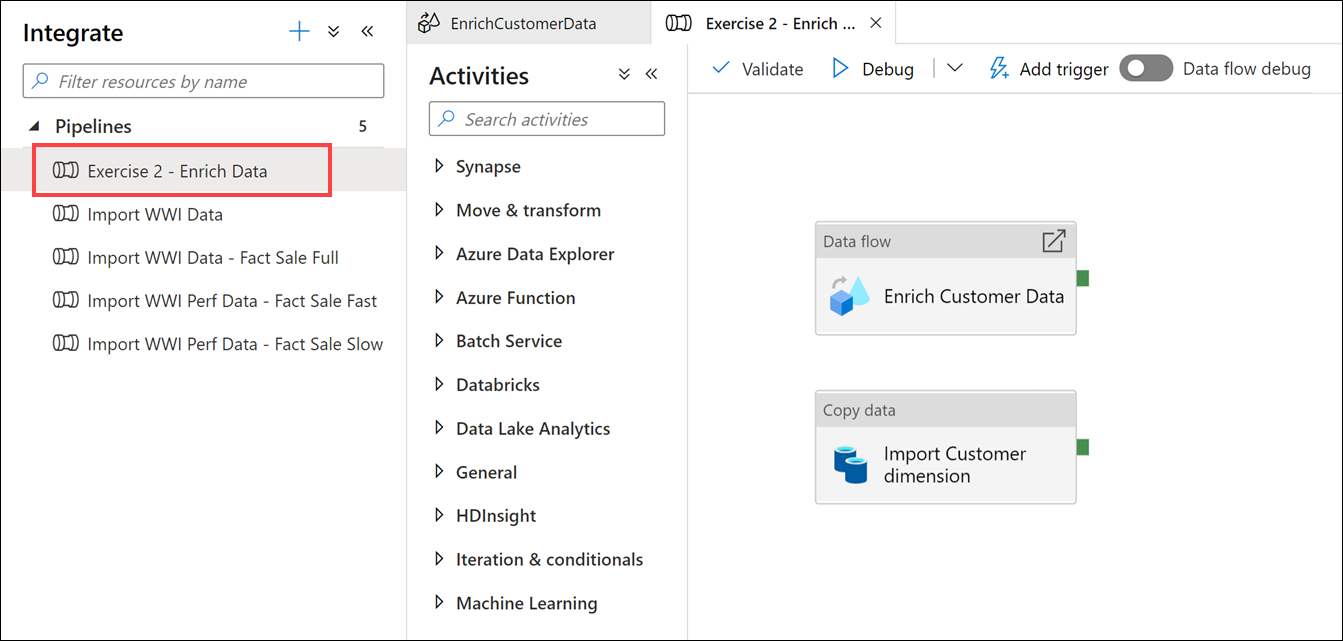
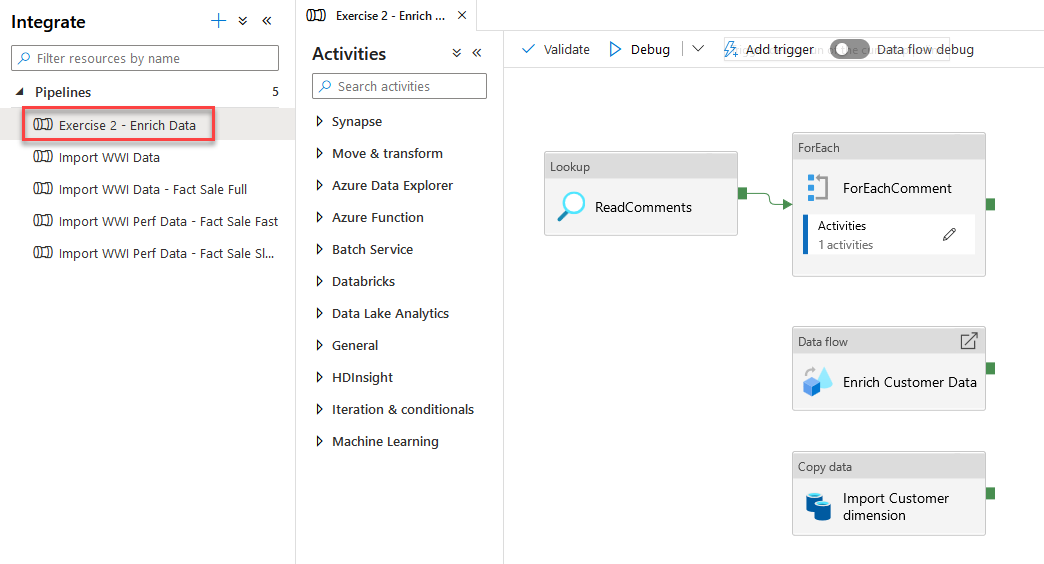
Cognitive Service use added for the Data Enrichment pipeline in Exercise 2

diff --git a/02-build-modern-dw-pipelines.md b/02-build-modern-dw-pipelines.md
@@ -10,6 +10,7 @@ The tasks you will perform in this exercise are:
   - Task 2 - Explore, modify, and run a Pipeline containing a Data Flow
   - Task 3 - Monitor pipelines
   - Task 4 - Monitor Spark applications
+    - Bonus Discovery
 
 ---
 
@@ -143,7 +144,7 @@ In this task, you see how easy it is to write into a dedicated SQL pool table wi
 
 18. Close the SQL script generated by `wwi_staging.Sale`.
 
-### Bonus exercise
+### Bonus challenge
 
 Now, take some time to review the **Exercise 2 - Bonus Notebook with CSharp** notebook.
 
@@ -182,9 +183,9 @@ To observe the data being written into the table:
 
 5. **Important**: Close the notebook by selecting the **X** in the top right of the tab and then select **Discard Changes**. Closing the notebook will ensure you free up the allocated resources on the Spark Pool.
 
-## Task 2 - Explore, modify, and run a Pipeline containing a Data Flow
+## Task 2 - Explore, modify, and run a Pipeline containing a Data Flow and Code-free AI
 
-In this task, you use a Pipeline containing a Data Flow to explore, transform, and load data into an Azure Synapse Analytics table. Using pipelines and data flows allows you to perform data ingestion and transformations, similar to what you did in Task 1, but without writing any code.
+In this task, you use a Pipeline that implements Code-free AI to do sentiment analysis on customer feedback and contains a Data Flow to explore, transform, and load data into an Azure Synapse Analytics table. Using Cognitive Services and data flows in Pipelines allows you to handle code-free AI workloads, perform data ingestion and transformations, similar to what you did in Task 1, but without writing any code.
 
 1. In Synapse Studio and select **Integrate** from the left-hand menu.
 
@@ -194,43 +195,66 @@ In this task, you use a Pipeline containing a Data Flow to explore, transform, a
 
    ![The Enrich Data pipeline is selected.](media/enrich-data-pipeline.png "Pipelines")
 
-   > Selecting a pipeline opens the pipeline canvas, where you can review and edit the pipeline using a code-free, graphical interface. This view shows the various activities within the pipeline and the links and relationships between those activities. The `Exercise 2 - Enrich Data` pipeline contains two activities, a copy data activity named `Import Customer dimension` and a mapping data flow activity named `Enrich Customer Data`.
+   > Selecting a pipeline opens the pipeline canvas, where you can review and edit the pipeline using a code-free, graphical interface. This view shows the various activities within the pipeline and the links and relationships between those activities. The `Exercise 2 - Enrich Data` pipeline contains four activities;
+   >
+   > - a Lookup activity named `ReadComments` reading customer comments
+   > - a ForEach loop named `ForEachComment` iterating through comments and running Sentiment Analysis with Azure Cognitive Services
+   > - a copy data activity named `Import Customer dimension`
+   > - a mapping data flow activity named `Enrich Customer Data`.
 
-3. Now, take a closer look at each of the activities within the pipeline. On the canvas graph, select the **Copy data** activity named `Import Customer dimension`.
+3. Now, take a closer look at each of the activities within the pipeline. On the canvas graph, select the **Lookup** activity named `ReadComments` and switch to the **Settings** tab. The source dataset is set to a CSV files stored in the data lake.
+
+    > A lookup activity reads and returns the content of a file which can be consumed in a subsequent copy, transformation, or control flow activities like ForEach activity. The Lookup activity output supports up to 4 MB in size. In this case, the source is set to a single CSV file that is much smaller. For larger data sets multiple source files can be used.
+
+   ![The Settings tab of the ReadCOmments Lookup Activity is selected. Source dataset is highlighted.](media/enrich-data-pipeline-readcomments.png "Read Comments")
+
+4. From the canvas graph, select the **ForEach (1)** activity named `ForEachComment` and switch to the **Settings (2)** tab. The **Items** property is set to receive the output of the previous `ReadComments` activity. You might have noticed the green connection line between the two activities that define a dependency between the two activities. The line makes sure comments are read before the ForEach loop can iterate it. Select the edit button **(4)** in the ForEach activity's Activities box to navigate into the loop.
+
+   ![ForEachComments ForEach activity is selected. Settings tab is shown. Items property is highlighted.](media/enrich-data-pipeline-foreach.png "ForEach Loop")
+
+5. Select **Copy data** activity named `Sentiment Analysis` and switch to the **Source** tab. The Copy Data activity's Source dataset is set to a REST resource **(3)** backed by Azure Cognitive Services. A POST **(4)** HTTP request will be made to the Azure Cognitive Services endpoint carrying a request body (5) that includes the text from the current iteration that will be analyzed for sentiments.
+
+    ![Copy data activity named Sentiment Analysis is selected. Source tab is open. Source dataset is set to a REST Data Source. Request body and method are highlighted.](media/data-enrichment-pipeline-sentiment-analysis-activity.png "Copy Data REST Source")
+
+6. Switch to the **Sink (1)** tab. Here, the sink dataset is set to a JSON file location in the data lake. Once the Copy data activity gets the result of the sentiment analysis from the remote REST resource endpoint, the result will be saved as separate JSON files into the Sink dataset **(2)**. The files will include a complete sentiment analysis for the customer comment that can be queried and analyzed further. Select **Exercise 2 - Enrich Data (3)** link to go back to the main pipeline canvas.
+
+   ![Copy data activity named Sentiment Analysis is selected. Sink tab is open. Sink dataset is set to a JSON Data Source. ](media/data-enrichment-pipeline-sentiment-analysis-activity-sink.png "Sentiment Sink")
+
+7. On the canvas graph, select the **Copy data** activity named `Import Customer dimension`.
 
     > Below the graph is a series of tabs, each providing additional details about the selected activity. The **General** tab displays the name and description assigned to the activity and a few other properties.
 
     ![A screenshot of Exercise 2 - Enrich Data pipeline canvas and properties pane is displayed.](media/ex02-orchestrate-copy-data-general.png "Pipeline canvas")
 
-4. Select the **Source** tab. The source defines the location from which the activity will copy data. The **Source dataset** field is a pointer to the location of the source data.
+8. Select the **Source** tab. The source defines the location from which the activity will copy data. The **Source dataset** field is a pointer to the location of the source data.
 
     > Take a moment to review the various properties available on the Source tab. Data is being retrieved from files stored in a data lake.
 
     ![The Source tab for the Copy data activity is selected and highlighted.](media/ex02-orchestrate-copy-data-source.png "Pipeline canvas property tabs")
 
-5. Next, select the **Sink (1)** tab. The sink specifies where the copied data will be written. Like the Source, the sink uses a dataset to define a pointer to the target data store. Select **PolyBase (2)** for the `Copy method`. This improves the data loading speed as compared to the default setting of bulk insert.
+9. Next, select the **Sink (1)** tab. The sink specifies where the copied data will be written. Like the Source, the sink uses a dataset to define a pointer to the target data store. Select **PolyBase (2)** for the `Copy method`. This improves the data loading speed as compared to the default setting of bulk insert.
 
     ![The Sink tab for the Copy data activity is selected and highlighted.](media/ex02-orchestrate-copy-data-sink.png "Pipeline canvas property tabs")
 
     > Reviewing the fields on this tab, you will notice that it is possible to define the copy method, table options, and to provide pre-copy scripts to execute. Also, take special note of the sink dataset, `wwi_staging_dimcustomer_asa`. The dataset requires a parameter named `UniqueId`, which is populated using a substring of the Pipeline Run Id. This dataset points to the `wwi_staging.DimCustomer_UniqueId` table in Synapse Analytics, which is one of the data sources for the Mapping Data Flow. We will need to ensure that the copy activity successfully populates this table before running the data flow.
 
-6. Select the **Mapping** tab. On this tab, you can review and set the column mappings. As you can see on this tab, the spaces are being removed from the sink's column names.
+10. Select the **Mapping** tab. On this tab, you can review and set the column mappings. As you can see on this tab, the spaces are being removed from the sink's column names.
 
     ![The Mappings tab for the Copy data activity is highlighted and displayed.](media/ex02-orchestrate-copy-data-mapping.png "Pipeline canvas property tabs")
 
-7. Finally, select the **Settings (1)** tab. Check **Enable staging (2)** and expand `Staging settings`. Select **asadatalake01** under `Staging account linked service` **(3)**, then type **staging** into `Storage Path`. Finally, check **Enable Compression**.
+11. Finally, select the **Settings (1)** tab. Check **Enable staging (2)** and expand `Staging settings`. Select **asadatalake01** under `Staging account linked service` **(3)**, then type **staging** into `Storage Path`. Finally, check **Enable Compression**.
 
     ![The staging settings are configured as described.](media/copy-data-settings.png "Settings")
 
     > Since we are using PolyBase with dynamic file properties, owing to the UniqueId values, we need to [enable staging](https://docs.microsoft.com/azure/data-factory/connector-azure-sql-data-warehouse#staged-copy-by-using-polybase). In cases of large file movement activities, configuring a staging path for the copy activity can improve performance.
 
-8. Switch to the **Mapping Data Flow (1)** activity by selecting the `Enrich Customer Data` Mapping Data Flow activity on the pipeline design canvas, then select the **Settings (2)** tab.
+12. Switch to the **Mapping Data Flow (1)** activity by selecting the `Enrich Customer Data` Mapping Data Flow activity on the pipeline design canvas, then select the **Settings (2)** tab.
 
     ![The data flow activity settings are displayed.](media/pipeline-data-flow-settings.png "Settings")
 
     > Observe the settings configurable on this tab. They include parameters to pass into the data flow, the Integration Runtime, and compute resource type and size to use. If you wish to use staging, you can also specify that here.
 
-9. Next, select the **Parameters** tab in the configuration panel of the Mapping Data Flow activity.
+13. Next, select the **Parameters** tab in the configuration panel of the Mapping Data Flow activity.
 
     ![The Parameters table on the configuration panel of the Mapping Data Flow activity is selected and highlighted.](media/ex02-orchestrate-data-flow-parameters.png "Mapping Data Flow activity")
 
@@ -242,125 +266,125 @@ In this task, you use a Pipeline containing a Data Flow to explore, transform, a
 
     > This sets the UniqueId parameter required by the `EnrichCustomerData` data flow to a unique substring extracted from the pipeline run ID.
 
-10. Take a minute to look at the options available on the various tabs in the configuration panel. You will notice the properties here define how the data flow operates within the pipeline.
+14. Take a minute to look at the options available on the various tabs in the configuration panel. You will notice the properties here define how the data flow operates within the pipeline.
 
-11. Now, let us look at the data flow definition the Mapping Data Flow activity references. Double-click the **Mapping Data Flow** activity on the pipeline canvas to open the underlying Data Flow in a new tab.
+15. Now, let us look at the data flow definition the Mapping Data Flow activity references. Double-click the **Mapping Data Flow** activity on the pipeline canvas to open the underlying Data Flow in a new tab.
 
     > **Important**: Typically, when working with Data Flows, you would want to enable **Data flow debug**. [Debug mode](https://docs.microsoft.com/azure/data-factory/concepts-data-flow-debug-mode) creates a Spark cluster to use for interactively testing each step of the data flow and allows you to validate the output before saving and running the data flow. Enabling a debugging session can take up to 10 minutes, so you will not enable this for this workshop. Screenshots will be used to provide details that would otherwise require a debug session to view.
 
     ![The EnrichCustomerData Data Flow canvas is displayed.](media/ex02-orchestrate-data-flow.png "Data Flow canvas")
 
-12. The [Data Flow canvas](https://docs.microsoft.com/azure/data-factory/concepts-data-flow-overview#data-flow-canvas) allows you to see the construction of the data flow and each component contained within it in greater detail.
+16. The [Data Flow canvas](https://docs.microsoft.com/azure/data-factory/concepts-data-flow-overview#data-flow-canvas) allows you to see the construction of the data flow and each component contained within it in greater detail.
 
     > From a high level, the `EnrichCustomerData` data flow is composed of two data sources, multiple transformations, and two sinks. The data source components, `PostalCodes` and `DimCustomer`, ingest data into the data flow. The `EnrichedCustomerData` and `EnrichedCustomerDataAdls` components on the right are sinks, used to write data to data stores. The remaining components between the sources and sinks are transformation steps, which can perform filtering, joins, select, and other transformational actions on the ingested data.
 
     ![On the data flow canvas, the components are broken down into three sections. Section number 1 is labeled data sources and contains the PostalCodes and DimCustomer components. Section number 2 is labeled Transformations, and contains the PostCodeFilter, JoinOnPostalCode, and SelectDesiredColumns components. Section number 3 is labeled sinks, and contains the EnrichedCustomerData and EnrichedCustomerDataAdls components.](media/ex02-orchestrate-data-flow-components.png "Data flow canvas")
 
-13. To better understand how a data flow functions, let us inspect the various components. Select the `PostalCodes` data source on the data flow canvas.
+17. To better understand how a data flow functions, let us inspect the various components. Select the `PostalCodes` data source on the data flow canvas.
 
     > On the **Source settings** tab, we see properties similar to what we saw on the pipeline activities property tabs. The name of the component can be defined, along with the source dataset and a few other properties. The `PostalCodes` dataset points to a CSV file stored in an Azure Data Lake Storage Gen2 account.
 
     ![The PostalCodes data source component is highlighted on the data flow canvas surface.](media/ex02-orchestrate-data-flow-sources-postal-codes.png "Data flow canvas")
 
-14. Select the **Projection** tab.
+18. Select the **Projection** tab.
 
     > The **Projections** tab allows you to define the schema of the data being ingested from a data source. A schema is required for each data source in a data flow to enable downstream transformations to perform actions against the data source fields. Note that selecting **Import schema** requires an active debug session to retrieve the schema data from the underlying data source, as it uses the Spark cluster to read the schema. In the screenshot above, notice the `Zip` column is highlighted. The schema inferred by the import process set the column type to `integer`. For US zip code data, the data type was changed to `string` so leading zeros are not discarded from the five-digit zip codes. It is essential to review the schema to ensure the correct types are set, both for working with the data and to ensure it is displayed and stored correctly in the data sink.
 
     ![The Projections tab for the PostalCodes data source is selected, and the Zip column of the imported schema is highlighted.](media/ex02-orchestrate-data-flow-sources-postal-codes-projection.png "Data flow canvas")
 
-15. The **Data preview** tab allows you to ingest a small subset of data and view it on the canvas. This functionality requires an active debug session, so for this workshop, a screenshot that displays the execution results for that tab is provided below.
+19. The **Data preview** tab allows you to ingest a small subset of data and view it on the canvas. This functionality requires an active debug session, so for this workshop, a screenshot that displays the execution results for that tab is provided below.
 
     > The `Zip` column is highlighted on the Data preview tab to show a sample of the values contained within that field. Below, you will filter the list of zip codes down to those that appear in the customer dataset.
 
     ![The Data preview tab is highlighted and selected. The Zip column is highlighted on the Data preview tab.](media/ex02-orchestrate-data-flow-sources-postal-codes-data-preview.png "Data flow canvas")
 
-16. Before looking at the `PostalCodeFilter`, quickly select the `+` **(1)** button to the right of the `PostalCodes` data source to display a list of available transformations **(2)**.
+20. Before looking at the `PostalCodeFilter`, quickly select the `+` **(1)** button to the right of the `PostalCodes` data source to display a list of available transformations **(2)**.
 
     > Take a moment to browse the list of transformations available in Mapping Data Flows. From this list, you get an idea of the types of transformations possible using data flows. Transformations are broken down into three categories, **multiple inputs/outputs**, **schema modifiers**, and **row modifiers**. You can learn about each transformation in the docs by reading the [Mapping data flow transformation overview](https://docs.microsoft.com/azure/data-factory/data-flow-transformation-overview) article.
 
     ![The + button next to PostalCodes is highlighted, and the menu of available transformations is displayed.](media/ex02-orchestrate-data-flow-available-transformations.png "Data flow canvas")
 
-17. Next, select the `PostalCodeFilter` transformation in the graph on the data flow canvas.
+21. Next, select the `PostalCodeFilter` transformation in the graph on the data flow canvas.
 
     ![The PostalCodeFilter transformation is highlighted on the data flow canvas graph.](media/ex02-orchestrate-data-flow-transformations-filter.png "Data flow canvas")
 
-18. In the **Filter settings** tab of the configuration panel, click anywhere inside the **Filter on** box.
+22. In the **Filter settings** tab of the configuration panel, click anywhere inside the **Filter on** box.
 
     ![The Filter on box is highlighted in the configuration panel for the PostalCodeFilter transformation.](media/ex02-orchestrate-data-flow-transformations-filter-on.png "Data flow canvas")
 
-19. This will open the Visual expression builder.
+23. This will open the Visual expression builder.
 
     > In mapping data flows, many transformation properties are entered as expressions. These expressions are composed of column values, parameters, functions, operators, and literals that evaluate to a Spark data type at run time. To learn more, visit the [Build expressions in mapping data flow](https://docs.microsoft.com/azure/data-factory/concepts-data-flow-expression-builder) page in the documentation.
 
     ![The Visual expression builder is displayed.](media/ex02-orchestrate-data-flow-expression-builder.png "Visual expression builder")
 
-20. The filter currently applied ensures all zip codes are between 90000 and 98000. Observe the different expression elements and values in the area below the expression box that help you create and modify filters and other expressions.
+24. The filter currently applied ensures all zip codes are between 90000 and 98000. Observe the different expression elements and values in the area below the expression box that help you create and modify filters and other expressions.
 
-21. Select **Cancel** to close the visual expression builder.
+25. Select **Cancel** to close the visual expression builder.
 
-22. Select the `DimCustomer` **(1)** data source on the data flow canvas graph.
+26. Select the `DimCustomer` **(1)** data source on the data flow canvas graph.
 
     > Take a few minutes to review the various tabs in the configuration panel for this data source to better understand how it is configured, as you did above. Note that this data source relies on the `wwi_staging.DimCustomer_UniqueId` table from Azure Synapse Analytics for its data. `UniqueId` is supplied by a parameter to the data flow, which contains a substring of the Pipeline Run Id. Before running the pipeline, you will add a dependency to the Mapping Data Flow activity to ensure the Copy activity has populated the `wwi_staging.DimCustomer_UniqueId` in Azure Synapse Analytics before allowing the data flow to execute.
 
     ![The DimCustomer data source is highlighted on the data flow canvas graph.](media/ex02-orchestrate-data-flow-sources-dim-customer.png "Data flow canvas")
 
-23. Next, select the `JoinOnPostalCode` **(1)** transformation and ensure the **Join settings** tab **(2)** is selected to see how you can join datasets using a simple and intuitive graphical interface.
+27. Next, select the `JoinOnPostalCode` **(1)** transformation and ensure the **Join settings** tab **(2)** is selected to see how you can join datasets using a simple and intuitive graphical interface.
 
     > The **Join settings** tab allows you to specify the data sources being joined and the join types and conditions. Notice the **Right stream** points to the `PostalCodeFilter` and not the `PostalCodes` data source directly. By referencing the filtered dataset, the join works with a smaller set of postal codes. For extensive datasets, this can provide performance benefits.
 
     ![The JoinOnPostalCode transformation is highlighted in the graph, and the Join settings tab is highlighted in the configuration panel.](media/ex02-orchestrate-data-flow-transformations-join.png "Data flow canvas")
 
-24. Moving on to the next transformation, the `SelectDesiredColumns` transformation uses a **Select** schema modifier to allow choosing what columns to include.
+28. Moving on to the next transformation, the `SelectDesiredColumns` transformation uses a **Select** schema modifier to allow choosing what columns to include.
 
     > You have probably noticed that the `SelectDesiredColumns` transformation appears twice in the graph. To enable writing the resulting dataset to two different sinks, Azure Synapse Analytics and Azure Data Lake Storage Gen2, a **Conditional split** multiple outputs transformation is required. This split is displayed in the graph as a repeat of the split item.
 
     ![The SelectDesiredColumns transformation is highlighted in the data flow graph.](media/ex02-orchestrate-data-flow-transformations-select.png "Data flow canvas")
 
-25. The last two items in the data flow are the defined sinks. These provide the connection settings necessary to write the transformed data into the desired data sink. Select the `EnrichCustomerData` **(1)** sink and inspect the settings on the **Sink** tab **(2)**.
+29. The last two items in the data flow are the defined sinks. These provide the connection settings necessary to write the transformed data into the desired data sink. Select the `EnrichCustomerData` **(1)** sink and inspect the settings on the **Sink** tab **(2)**.
 
     ![The Sink tab is displayed for the EnrichCustomerData sink, which is highlighted in the graph.](media/ex02-orchestrate-data-flow-sink-sink.png "Data flow canvas")
 
-26. Next, select the **Settings** tab and observe the properties set there.
+30. Next, select the **Settings** tab and observe the properties set there.
 
     > The **Settings** tab defines how data is written into the target table in Azure Synapse Analytics. The Update method has been set only to allow inserts, and the table action is set to recreate the table whenever the data flow runs.
 
     ![The Settings tab is selected and highlighted in the configuration panel. On the tab, the Allow insert and Recreate table options are highlighted.](media/ex02-orchestrate-data-flow-sink-settings.png "Data flow canvas")
 
-27. Now that you have taken the time to review the data flow, let us return to the pipeline. On the canvas, select the **Exercise 2 - Enrich Data** tab.
+31. Now that you have taken the time to review the data flow, let us return to the pipeline. On the canvas, select the **Exercise 2 - Enrich Data** tab.
 
     ![The Exercise 2 - Enrich Data tab is highlighted on the canvas.](media/ex02-orchestrate-canvas-tabs-pipeline.png "Data pipeline canvas")
 
-28. Before running the pipeline there is one more change we need to make. As mentioned above, the data flow depends on the data written by the copy activity, so you will add a dependency between the two activities.
+32. Before running the pipeline there is one more change we need to make. As mentioned above, the data flow depends on the data written by the copy activity, so you will add a dependency between the two activities.
 
-29. In the data flow canvas graph, select the green box on the right-hand side of the **Copy data** activity and drag the resulting arrow up onto the **Mapping Data Flow** activity.
+33. In the data flow canvas graph, select the green box on the right-hand side of the **Copy data** activity and drag the resulting arrow up onto the **Mapping Data Flow** activity.
 
     ![The green box on the right-hand side of the Copy data activity is highlighted, and the arrow has been dragged onto the Mapping Data Flow.](media/ex02-orchestrate-pipelines-create-dependency.png "Data pipeline canvas")
 
-30. This creates a requirement that the **Copy data** activity completes successfully before the **Mapping Data Flow** can execute and enforces our condition of the Synapse Analytics table being populated before running the data flow.
+34. This creates a requirement that the **Copy data** activity completes successfully before the **Mapping Data Flow** can execute and enforces our condition of the Synapse Analytics table being populated before running the data flow.
 
     ![The dependency arrow going from the Copy data activity to the Mapping Data Flow is displayed.](media/ex02-orchestrate-pipelines-create-dependency-complete.png "Data pipeline canvas")
 
-31. The last step before running the pipeline is to publish the changes you have made. Select **Publish all** on the toolbar.
+35. The last step before running the pipeline is to publish the changes you have made. Select **Publish all** on the toolbar.
 
     ![The Publish all button is highlighted on the Synapse Studio toolbar.](media/ex02-orchestrate-pipelines-publish-all.png "Publish")
 
-32. On the **Publish all** dialog, select **Publish**.
+36. On the **Publish all** dialog, select **Publish**.
 
     > This Publish all dialog allows you to review the changes that will be saved.
 
-33. Within a few seconds, you _may_ receive a notification that the publish is completed. If so, select **Dismiss** in the notification.
+37. Within a few seconds, you _may_ receive a notification that the publish is completed. If so, select **Dismiss** in the notification.
 
     ![The publishing completed notification is displayed.](media/ex02-publishing-completed.png "Publishing completed")
 
-34. Your pipeline is now ready to run. Select **Add trigger (1)** then **Trigger now (2)** on the toolbar for the pipeline.
+38. Your pipeline is now ready to run. Select **Add trigger (1)** then **Trigger now (2)** on the toolbar for the pipeline.
 
     ![Add trigger is highlighted on the pipeline toolbar, and Trigger now is highlighted in the fly-out menu.](media/ex02-orchestrate-pipelines-trigger-now.png "Trigger pipeline")
 
-35. Select **OK** on the Pipeline run dialog to start the pipeline run.
+39. Select **OK** on the Pipeline run dialog to start the pipeline run.
 
     ![The OK button is highlighted in the Pipeline run dialog.](media/ex02-orchestrate-pipelines-trigger-run.png "Pipeline run trigger")
 
-36. To monitor the pipeline run, move on to the next task.
+40. To monitor the pipeline run, move on to the next task.
 
 ## Task 3 - Monitor pipelines
 
@@ -437,6 +461,28 @@ After you finish building and debugging your data flow and its associated pipeli
 17. Back on Exercise 2 - Enrich Data pipeline run screen, switch to the Gantt view. This view provides a graphical representation of the run times of the various activities within the pipeline.
 
     ![The Gantt view option is selected and highlighted on the pipeline run dialog.](media/ex02-monitoring-ex2-enrich-data-activity-runs-gantt.png "Pipeline run Gantt view")
+
+### Bonus discovery
+
+Remember the sentiment analysis task we had in our Exercise 2 - Enrich Data pipeline? Once your pipeline's execution is complete we have some sentiment data we can look into.
+
+1. Go to the **Develop** Hub and navigate to the `dev > bronze > sentiment` **(2)** folder in the primary data lake account **(1)**. Select all the files and right click to select **New SQL script > Select TOP 100 rows**.
+
+   ![dev > bronze > sentiment folder in the Workspace data lake account is shown. All files are selected. Right click context menu is open. New SQL script > Select TOP 100 rows command is highlighted.](media/query-sentiment-json-files.png "Sentiment Folder")
+
+2. Replace the top part of the query **(1)** with the code below. Select **Run (2)** to execute the final query.
+
+    ```sql
+    SELECT 
+        jsonContent,
+        JSON_VALUE (jsonContent, '$.documents[0].sentiment') AS Sentiment,
+        JSON_VALUE (jsonContent, '$.documents[0].id') AS CustomerId
+    FROM
+    ```
+
+    ![A JSON SQL Query is shown. Sentiment Analysis results are listed.](media/sentiment-json-query-result.png "JSON Query for Sentiments")
+
+    Your query targets the JSON files created as the result of the Sentiment analysis run through Azure Cognitive Services. Here you see a simple query that shows the list of Customer IDs and how their feedback is interpreted in the context of sentiment reflection.
 
 ## Task 4 - Monitor Spark applications
 
